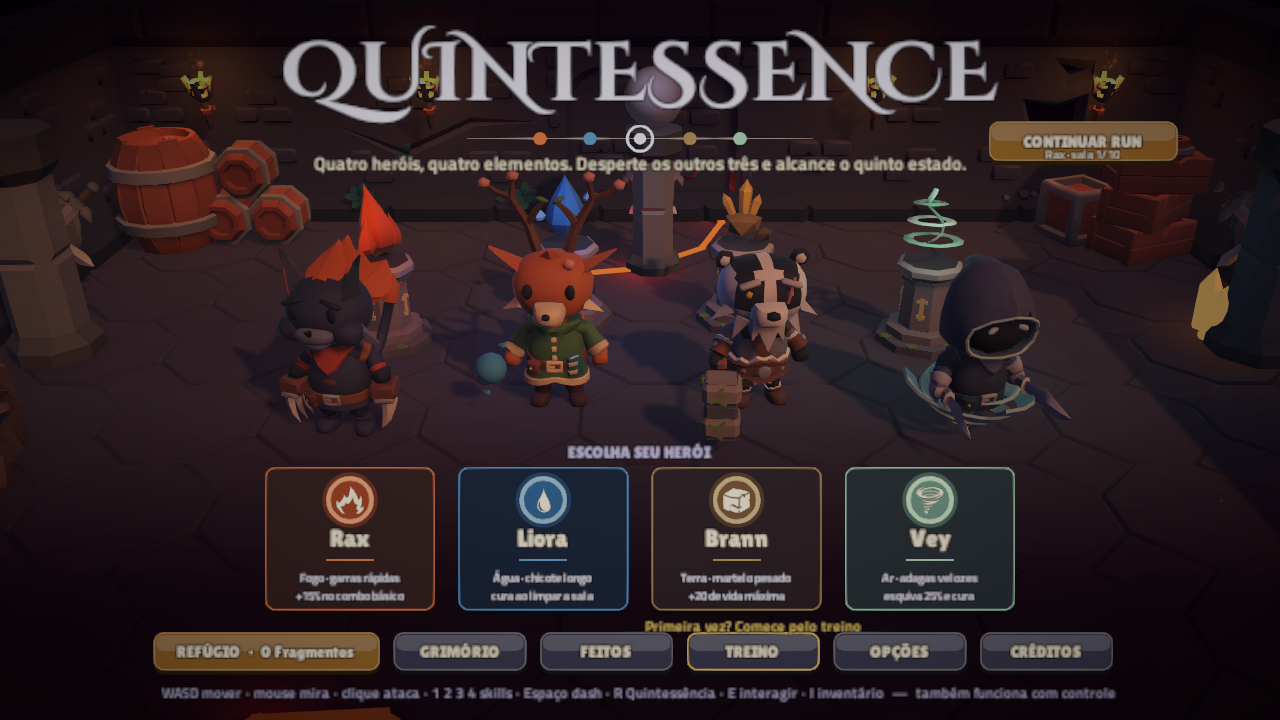
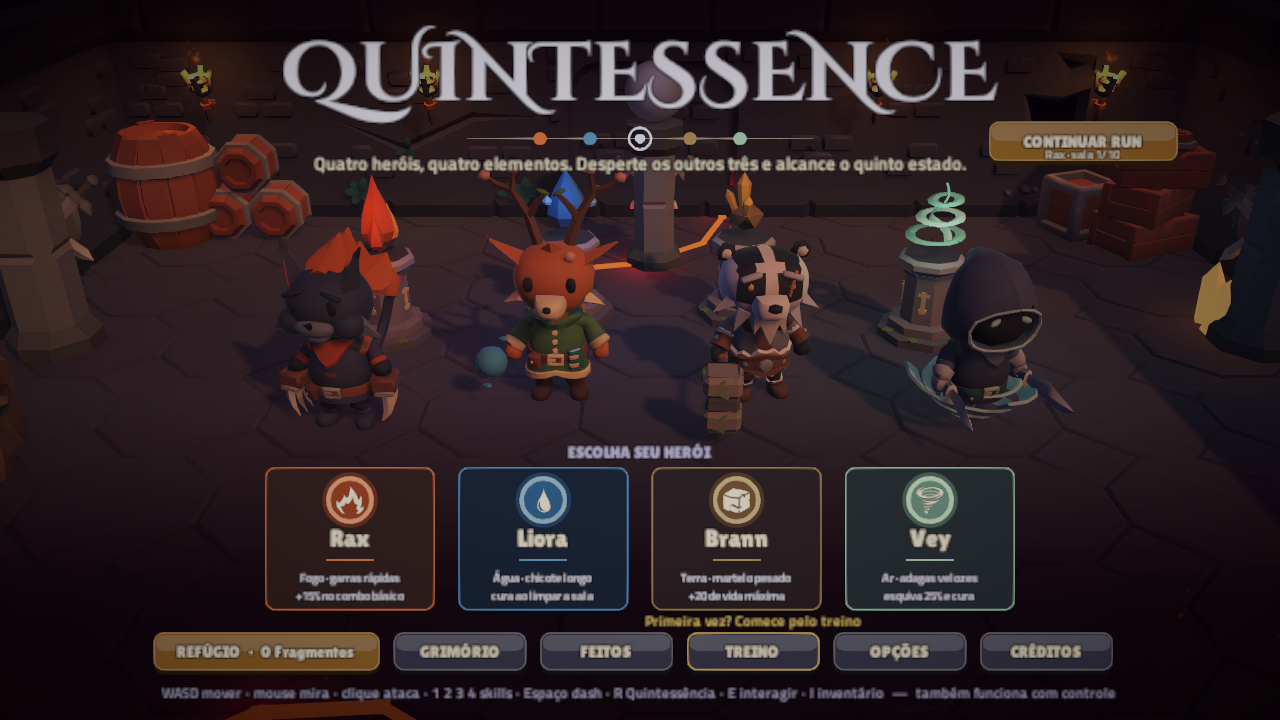
Convite do treino no título com folga em cima do botão (encostava) e prints do itch do título, Santuário e Mestre refeitos

diff --git a/Assets/Game/UI/TitleMenu.cs b/Assets/Game/UI/TitleMenu.cs
@@ -446,7 +446,7 @@ namespace Quintessence.UI
             var treino = root.Find("Button_TREINO");
             treinoEdge = treino != null ? treino.Find("Edge").GetComponent<UnityEngine.UI.Image>() : null;
             treinoEdgeColor = treinoEdge != null ? treinoEdge.color : Color.white;
-            firstTimeHint = UiKit.Text(UiKit.Rect("FirstTime", root, new Vector2(0.5f, 0), new Vector2(170, 124), new Vector2(420, 30)),
+            firstTimeHint = UiKit.Text(UiKit.Rect("FirstTime", root, new Vector2(0.5f, 0), new Vector2(170, 132), new Vector2(420, 30)), // 132: em 124 encostava no botao
                 "Primeira vez? Comece pelo treino", 22, new Color(0.9f, 0.76f, 0.42f), TextAnchor.MiddleCenter, false);
             Small("OPÇÕES", 390, ShowOptions);
             Small("CRÉDITOS", 610, ShowCredits);
